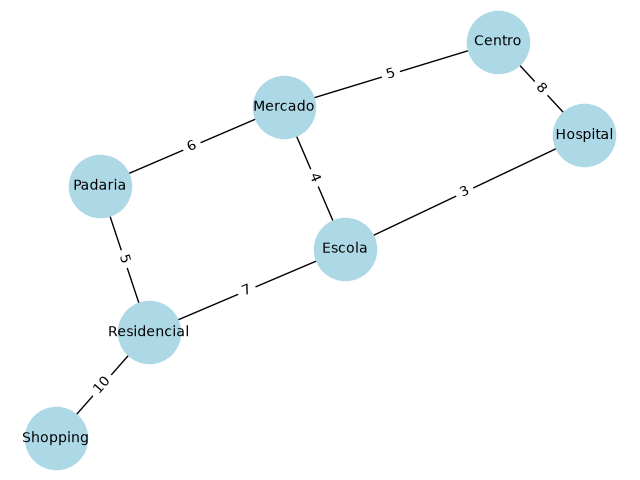
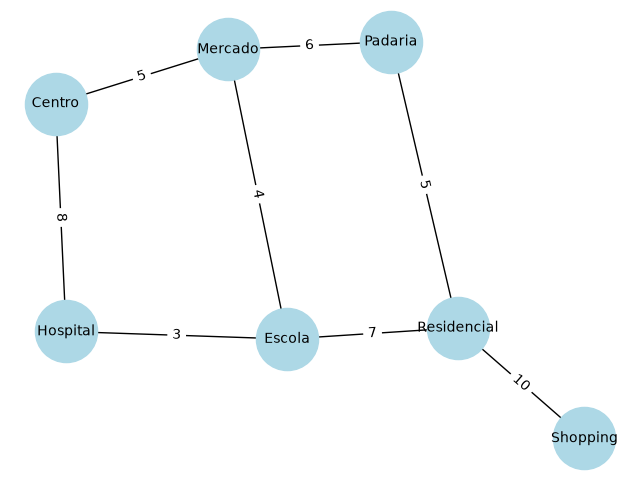
Implementa agrupamento de entregas com K-Means e geração de gráfico

diff --git a/src/main.py b/src/main.py
@@ -2,6 +2,8 @@ import heapq
 import networkx as nx
 import matplotlib.pyplot as plt
 import os
+from sklearn.cluster import KMeans
+import numpy as np
 
 # 1. Criação do Grafo (representando a cidade)
 grafo = {
@@ -66,4 +68,37 @@ nx.draw_networkx_edge_labels(G, pos, edge_labels=labels)
 plt.title("Mapa da Cidade - Sabor Express")
 os.makedirs("outputs", exist_ok=True)
 plt.savefig("outputs/grafo_cidade.png")
+plt.show()
+
+# ==========================================
+# 5. Implementação do K-Means (Agrupamento de Entregas)
+# Simulando coordenadas (x, y) de 10 pontos de entrega na cidade
+pontos_entrega = np.array([
+    [2, 3], [2, 4], [3, 3],   # Zona 1 (Centro)
+    [8, 7], [9, 8], [8, 8],   # Zona 2 (Mercado)
+    [1, 9], [2, 10], [1, 10], # Zona 3 (Escola)
+    [10, 2]                   # Ponto isolado
+])
+
+# Criando o modelo K-Means com 3 zonas 
+kmeans = KMeans(n_clusters=3, random_state=42)
+kmeans.fit(pontos_entrega)
+
+# Pegando os rótulos (qual zona pertence cada entrega) e os centros
+rotulos = kmeans.labels_
+centros = kmeans.cluster_centers_
+
+print("\n--- K-MEANS: AGRUPAMENTO DE ENTREGAS ---")
+print(f"Pontos de entrega:\n{pontos_entrega}")
+print(f"\nZonas (clusters) atribuídas:\n{rotulos}")
+print(f"\nCentros das zonas (locais ideais para os entregadores):\n{centros}")
+
+plt.figure(figsize=(8, 6))
+plt.scatter(pontos_entrega[:, 0], pontos_entrega[:, 1], c=rotulos, cmap='viridis', marker='o', s=100)
+plt.scatter(centros[:, 0], centros[:, 1], c='red', marker='X', s=200, label='Centros dos Clusters')
+plt.title("Agrupamento de Entregas com K-Means")
+plt.xlabel("Coordenada X")
+plt.ylabel("Coordenada Y")
+plt.legend()
+plt.savefig("outputs/kmeans_entregas.png")
 plt.show()
